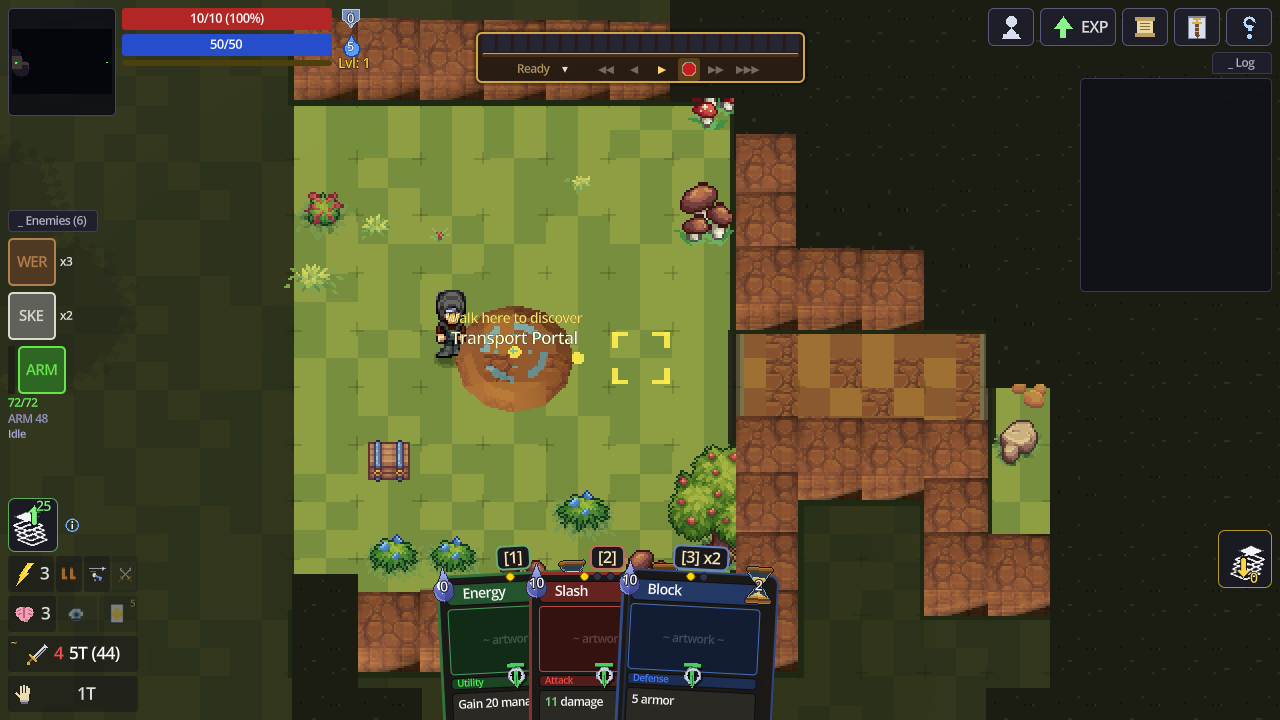
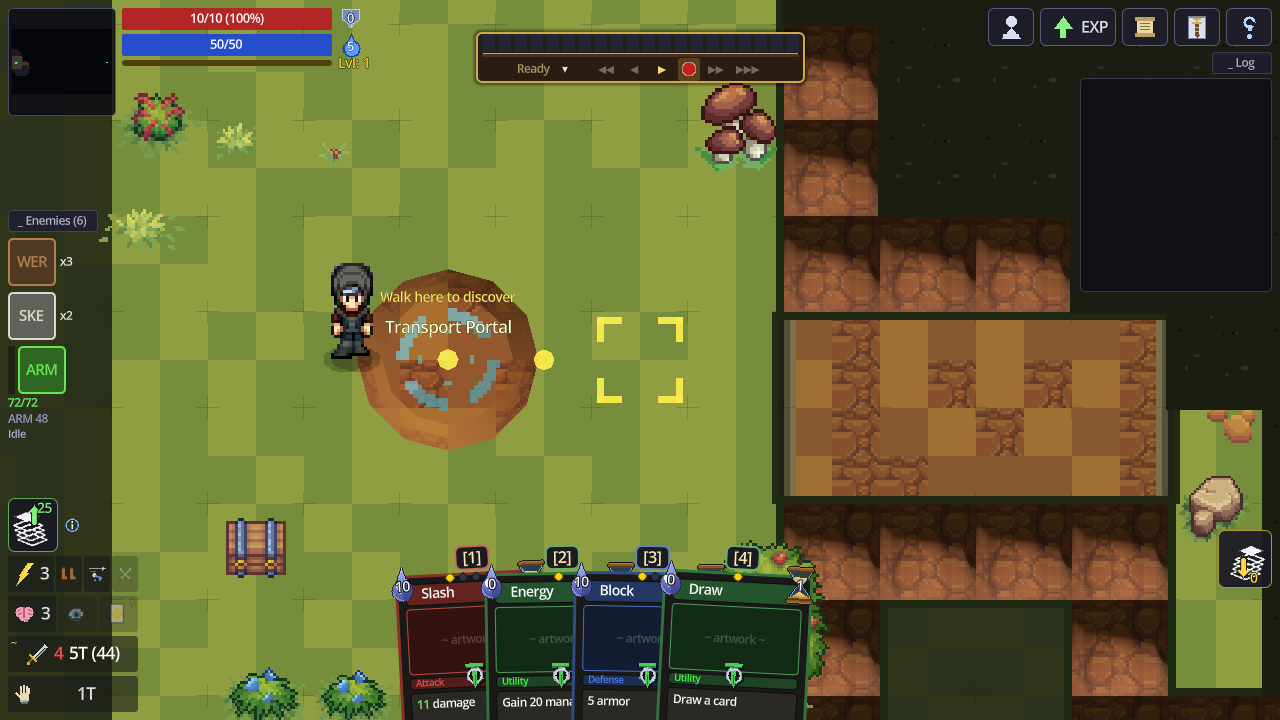
Plan view with whole-pixel texel scaling; full-res world; flat walls; labels reverted
The world now renders at full resolution under a fixed plan camera (one
degree off vertical, north up), and zoom is a texel scale of 1-4 screen
pixels per texel derived from the viewport height, so every tile, prop
and sprite lands on whole pixels. The window stretch is integer-scaled
with an expanding aspect. Sprite texel size is exactly 1/32 of a unit to
match the 32-texel ground tiles. The old half-res world put each texel on
1.4 screen pixels and turned the pack art into mush.

The degree of tilt makes anything further south nearer the camera, so
billboards y-sort by row. Every billboard is lifted 0.3 above the ground,
walls are 0.06 slabs and the elevation step is 0.06, so no wall or
plateau can draw over a character standing beside it - the last "hidden
behind a wall" case is gone.

Head-up labels keep their previous sizes (the shrink is reverted) and map
world height to screen-up at the factor the old three-quarter view had, so
they sit where they did; enemy tempo, armour and status bars moved north
of the feet accordingly.

Claude-Session: https://claude.ai/code/session_015tgbwaAhcMDCx3nBpGq8fo

diff --git a/docs/STYLE_GUIDE.md b/docs/STYLE_GUIDE.md
@@ -14,30 +14,37 @@ conforms to them.
 
 ## 0. Camera
 
-- **One fixed view**, shared by battle and town: north up, pitched **-65°**,
-  orthographic. Constants live in `scripts/core/camera_view.gd`
-  (`CameraView`); nothing else hard-codes an angle. Zoom is free (mouse
-  wheel, `<` / `>`); the angle is not — the top-down packs are drawn for a
-  single viewpoint, and a free orbit made their fronts, painted shadows and
-  wall faces lie.
+- **One fixed plan view**, shared by battle and town: north up, looking
+  straight down (pitched **-89°**, a degree off vertical), orthographic.
+  Constants live in `scripts/core/camera_view.gd` (`CameraView`); nothing
+  else hard-codes an angle. The top-down packs are 2D art: a tile is 32
+  texels, a figure stands on its tile and extends north. This camera shows
+  them exactly as drawn.
+- **Whole-pixel texel scale.** Zoom is a texel scale of 1–4 screen pixels
+  per texel (mouse wheel, `<` / `>`), never a distance; the orthographic
+  size is derived from the viewport height so a texel always covers an
+  integer number of pixels. The world viewport renders at full resolution.
+  The window stretch is integer-scaled with an expanding aspect, so a big
+  window shows more world rather than a fractionally scaled one.
+- **Depth is sorting.** The one degree of tilt puts anything further south
+  0.017 units nearer the camera, so billboards y-sort by row for free. Every
+  billboard sprite is lifted `CameraView.SPRITE_LIFT` (0.3) off the ground,
+  above any wall slab or plateau (walls are 0.06 slabs; `ELEV_STEP` is
+  0.06), so terrain can never draw over a figure. Height barely moves a
+  point on screen; head-up labels and bars therefore sit *north* of the
+  feet, and world heights map to screen-up at `HEIGHT_ON_SCREEN` (cos 65°,
+  the factor the old three-quarter view had) so nothing moved.
 - The view scrolls but never turns: left-drag, the arrow keys and Home
   (re-centre) move a pan offset over the follow focus; walking re-centres.
-- Why -65° and not a plan view: at -90° upright billboards are edge-on. At
-  -65° the ground sits within ~10% of 1:1 texel mapping (sin 65° ≈ 0.906)
-  while sprites still show their painted fronts, which is how the pack art
-  is drawn. Everything that depends on the pitch derives it from
-  `CameraView.ground_foreshortening()` (the shadow ellipse stretch, for one)
-  so the number can move without a retune.
 - Screen-up is grid north (-Z); `CharacterAnimator.Direction.SOUTH` faces
-  the camera. WASD still projects through the (fixed) yaw.
+  the camera. WASD projects through the (fixed) yaw.
 
 ## 1. Resolution & scale
 
-- World render: **640×360** inside `WorldViewport` (SubViewport), nearest
-  upscaled to the window. Rationale over 320×180: enemy name/health `Label3D`s
-  and the tactical zoom range become unreadable at 180p; 360p keeps chunky
-  texels at every zoom while staying legible. (Flagged in OPEN_QUESTIONS.md —
-  one constant to change.)
+- World render: **full resolution** inside `WorldViewport` (SubViewport).
+  Pixel art is scaled by the camera's whole-number texel scale (§0), never
+  by a viewport downscale — the old 640×360 world put every texel on 1.4
+  screen pixels and the pack art read as mush.
 - UI renders outside the viewport at window resolution (1280×720 base).
   So does **world text**: every `Label3D` is mirrored by a full-resolution
   `Label` in `WorldLabelOverlay` that follows its screen position each
@@ -45,9 +52,11 @@ conforms to them.
   but stays the source of truth for text, colour and visibility). Text
   rendered inside the half-res world was smeared 2× — never put text in
   the world viewport.
-- Sprite texel density: **`PIXEL_SIZE = 0.034`** world units per texel for
-  every billboard (party, enemies, overlays). No per-entity scale factors —
-  bigger creatures get bigger *art* or an integer-ish rig scale, never a
+- Sprite texel density: **`PIXEL_SIZE = 1/32`** world units per texel
+  (`CameraView.PIXEL_SIZE`) for every billboard (party, enemies, props,
+  overlays) — the same 32 texels per unit as the ground, so sprites and
+  tiles land on the same pixel grid. No per-entity scale factors — bigger
+  creatures get bigger *art* or an integer-ish rig scale, never a
   texel-density change.
 - 2D pixel art is never scaled fractionally; `Sprite2D` scale stays `(1,1)`.
 - Terrain: 1 world unit = 1 grid tile = one 32×32-texel texture repeat.
@@ -119,10 +128,9 @@ conforms to them.
   whole MultiMesh of stones as one object), which is what buried the player
   under the scenery. Only true translucency (blob shadows, fog, portals,
   water film) stays alpha-blended.
-- Walls are ~one tile of face (natural 0.9–1.25, buildings 1.25 units, plus
-  elevation): tall enough to read as a wall at -65°, low enough that a
-  character just north of one still shows from the shoulders up — the
-  proportion the 16px pack wall faces are drawn at.
+- Walls are flat slabs (0.06) carrying the pack's cliff-face fill on top;
+  under the plan camera that is all that is seen, and a slab can never draw
+  over a figure standing beside it (§0).
 - MonsterKit flyer cells (bee, hawk, bat, carpet, sword) have painted shadows
   in-art — those kinds skip the shadow node (no doubles). Craftpix character
   packs ship every sheet twice; always use `Without_shadow/` and let the blob

diff --git a/README.md b/README.md
@@ -6,7 +6,7 @@
 
 ## A look at the game
 
-The battlefield is a fully 3D, elevation-aware grid rendered in pixel art from a fixed top-down three-quarter view — north is always up, and the camera zooms from close-up character work to a full tactical overview. Along the bottom: your hand of cards; top-center: the tempo bar that drives everything; left rail: the live enemy tracker.
+The battlefield is an elevation-aware grid rendered in pixel art from a fixed top-down view — north is always up, every texel lands on whole screen pixels, and the camera zooms by texel scale from close-up character work to a full tactical overview. Along the bottom: your hand of cards; top-center: the tempo bar that drives everything; left rail: the live enemy tracker.
 
 | Default battle view | Closer |
 |---|---|
